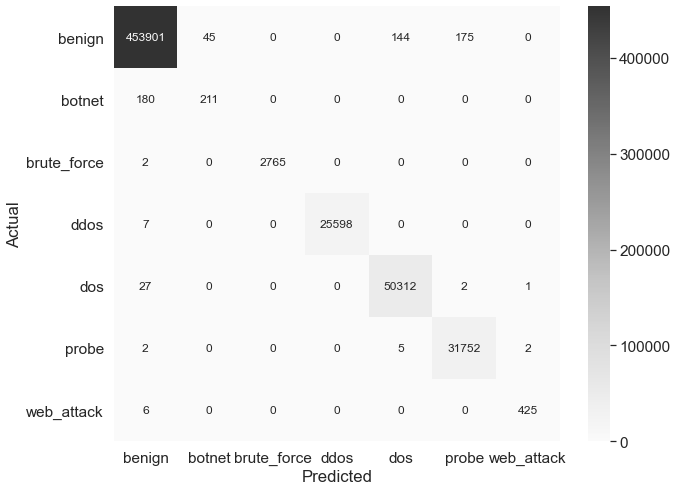
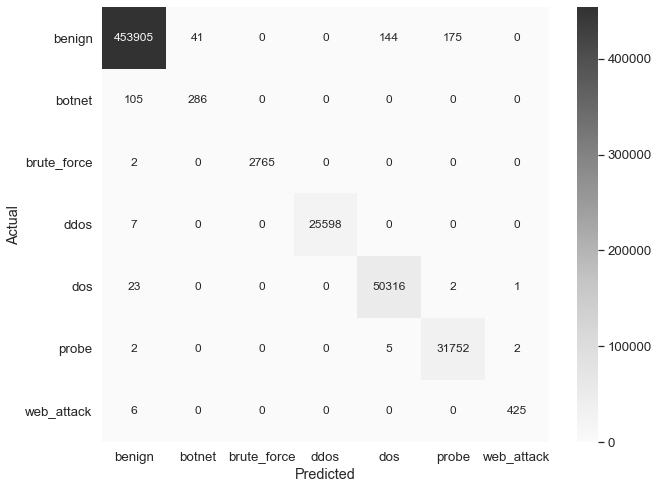
Almost finished

diff --git a/assets/chapters/chapter4.tex b/assets/chapters/chapter4.tex
@@ -8,22 +8,18 @@
 
 The classifier of choice, as discussed in \ref{subsec:classification}, was \textit{Random Forest}. It is particularly interesting to observe the results of the training with ungrouped labels versus the one with grouped labels: the differences in terms of precision and F1 score are remarkable.
 
-\begin{figure}[h!]
-   \centering
-   \includegraphics[scale=0.5]{assets/figures/chapter3/heatmap-all.png}
-   \caption{CICIDS2017 Feature Correlation Matrix (heatmap)}
-   \label{fig:feature-heatmap}
-\end{figure}
+% \begin{figure}[h!]
+%    \centering
+%    \includegraphics[scale=0.5]{assets/figures/chapter3/heatmap-all.png}
+%    \caption{CICIDS2017 Feature Correlation Matrix (heatmap)}
+%    \label{fig:feature-heatmap}
+% \end{figure}
 
 \subsection{Ungrouped Labels Model}
 \label{subsec:ungrouped-training}
 
-\begin{figure}[h!]
-   \centering
-   \includegraphics[scale=0.62]{assets/figures/chapter3/ungrouped_confusion_matrix.png}
-   \caption{Confusion Matrix of the Random Forest model trained using CICIDS2017 dataset with ungrouped features}
-   \label{fig:ungrouped-confusion-matrix}
-\end{figure}
+Considering the model trained with all the labels available in the dataset, performance is expected to be lower that the one trained on grouped features. Three metrics will be considered for the comparison of the features (\textit{precision}, \textit{recall} and \textit{F1 score}).
+\par Table \ref{tab:ungrouped-metrics} shows the metrics achieved by the model, regarding each feature. The average \textit{precision} is $90.9253\%$, the average \textit{recall} is $88.1413\%$ and the average \textit{F1 Score} is $89.2012\%$, with an overall \textit{accuracy} of $99.8636\%$. The training time was $802.53$ seconds, using the hardware listed in \ref{sec:model-training} and training the model on a Jupyter Notebook using Python \texttt{3.9.4} (64-bit).
 
 \begin{table}[h!]
    \centering
@@ -31,42 +27,49 @@ The classifier of choice, as discussed in \ref{subsec:classification}, was \text
        \toprule 
        Traffic Label & Precision (\%) & Recall (\%) & F1 Score (\%) \\
        \midrule
-       \rowcolor{black!10} \texttt{Benign} & 99.9507 & 99.9199 & 99.9353 \\
-       \texttt{Bot} & 82.4219 & 53.9642 & 65.2241 \\
-       \rowcolor{black!10} \texttt{Brute Force} & 100.0000 & 99.9277 & 99.9638 \\
-       \texttt{DDoS} & 100.0000 & 99.9727 & 99.9863 \\
-       \rowcolor{black!10} \texttt{DoS GoldenEye} & 99.7047 & 99.9404 & 99.8224 \\
-       \texttt{DoS Hulk} & 99.4456 & 99.9717 & 99.7080 \\
-       \rowcolor{black!10} \texttt{DoS Slowloris} & 99.2991 & 98.6079 & 98.9523 \\
-       \texttt{FTP-Patator} & 100.0000 & 99.9727 & 99.9863 \\
-       \rowcolor{black!10} \texttt{Port Scan} & 99.7047 & 99.9404 & 99.8224 \\
-       \texttt{SSH-Patator} & 99.4456 & 99.9717 & 99.7080 \\
-       \rowcolor{black!10} \texttt{XSS} & 99.2991 & 98.6079 & 98.9523 \\
+       \rowcolor{black!10} \texttt{Benign} & 99.9480 & 99.9219 & 99.9349 \\
+       \texttt{Bot} & 84.1463 & 52.9412 & 64.9922 \\
+       \rowcolor{black!10} \texttt{Brute Force} & 72.3602 & 77.4086 & 74.7994 \\
+       \texttt{DDoS} & 100.0000 & 99.9570 & 99.9785 \\
+       \rowcolor{black!10} \texttt{DoS GoldenEye} & 99.9023 & 99.4169 & 99.6590 \\
+       \texttt{DoS SlowHTTPTest} & 99.0036 & 99.3636 & 99.1833 \\
+       \rowcolor{black!10} \texttt{DoS Hulk} & 99.6793 & 99.9565 & 99.8177 \\
+       \texttt{DoS Slowloris} & 99.8261 & 99.0509 & 99.4370 \\
+       \rowcolor{black!10} \texttt{FTP-Patator} & 100.0000 & 99.8740 & 99.9369 \\
+       \texttt{Port Scan} & 99.4457 & 99.9748 & 99.7095 \\
+       \rowcolor{black!10} \texttt{SSH-Patator} & 100.0000 & 99.8305 & 99.9152 \\
+       \texttt{XSS} & 36.7925 & 30.0000 & 33.0508 \\
        \bottomrule
    \end{tabular}
    \caption{\textit{Random Forest} trained model metrics on CICIDS2017 (ungrouped) features}
    \label{tab:ungrouped-metrics}
 \end{table}
 
-\subsection{Grouped Labels Model}
-\label{subsec:grouped-training}
+Although the shown results are not bad, they are certainly lowered by the \texttt{Bot}, \texttt{Brute Force} and \texttt{XSS} attacks classification, and this comes also clear form the \textit{confusion matrix} displayed in figure \ref{fig:ungrouped-confusion-matrix}: some of the \texttt{Bot} attacks are classified as \texttt{Benign}, some of the \texttt{Brute Force} ones are classified as \texttt{XSS} and vice versa; the problem is the proportion in which the classification goes wrong (\textit{e.g.: DoS Hulk has been classified 46005 times correctly and 137 times as benign traffic, while XSS has been classified 39 times correctly and 66 times as a brute force attack}). A possible explanation regarding the poor classification performance on these attacks can be maybe that features that correctly identify said attacks are not in the \textit{transport layer}, but in the \textit{application} one, such as particular characters used, or cookie payload, for example.
 
 \begin{figure}[h!]
    \centering
-   \includegraphics[scale=0.52]{assets/figures/chapter3/grouped_confusion_matrix.png}
-   \caption{Confusion Matrix of the Random Forest model trained using CICIDS2017 dataset with grouped features}
-   \label{fig:grouped-confusion-matrix}
+   \includegraphics[scale=0.62]{assets/figures/chapter3/ungrouped_confusion_matrix.png}
+   \caption{Confusion Matrix of the \textit{Random Forest} model trained using CICIDS2017 dataset (ungrouped) features}
+   \label{fig:ungrouped-confusion-matrix}
 \end{figure}
 
-asdasd
+\subsection{Grouped Labels Model}
+\label{subsec:grouped-training}
+
+Due to the variability of network attacks, always changing and updating, it is more important to identify the category of said malicious traffic, rather than the specific tool used to generate it. For this reason the features concerning specific attacks were grouped: this helps with generalization and reliability of the trained model, since the classification takes place observing different attacks, all with the same purpose (\textit{e.g. Information Gathering, Stress Testing, etc.}).
+\par Contrary to the considerations made in section \ref{subsec:ungrouped-training} for the ungrouped training, the expectations for the model trained with the grouped labels are higher. For obvious reasons the metrics used are the same used in the previous section (\textit{precision}, \textit{recall} and \textit{F1 Score}); the model is presumed to perform significantly better then the first one.
+\par As highlighted in section \ref{subsec:pre-processing}, the 12 traffic types can be grouped into 7 bigger categories, leading to less labels to predict and, hopefully, less classification errors. Table \ref{tab:grouped-metrics} displays the metrics for each of said categories. The average \textit{precision} is $97.9827\%$, the average \textit{recall} is $95.9278\%$ and the average \textit{F1 Score} is $96.8638\%$, with an overall \textit{accuracy} of $99.9089\%$. The training time, using the same hardware and software as before, was completed in $760.18$ seconds.
+\par From the data collected, the model has performed as expected: all three metrics increased significantly while the training time has decreased, resulting in a better performing model.
+
 \begin{table}[h!]
    \centering
    \begin{tabular}{l|llll}
        \toprule 
        Traffic Label & Precision (\%) & Recall (\%) & F1 Score (\%) \\
        \midrule
-       \rowcolor{black!10} \texttt{Benign} & 99.9507 & 99.9199 & 99.9353 \\
-       \texttt{Botnet} & 82.4219 & 53.9642 & 65.2241 \\
+       \rowcolor{black!10} \texttt{Benign} & 99.9681 & 99.9208 & 99.9444 \\
+       \texttt{Botnet} & 87.4618 & 73.1458 & 79.6657 \\
        \rowcolor{black!10} \texttt{Brute Force} & 100.0000 & 99.9277 & 99.9638 \\
        \texttt{DDoS} & 100.0000 & 99.9727 & 99.9863 \\
        \rowcolor{black!10} \texttt{DoS} & 99.7047 & 99.9404 & 99.8224 \\
@@ -78,10 +81,55 @@ asdasd
    \label{tab:grouped-metrics}
 \end{table}
 
- \noindent This table layout allows visualization of the algorithm's performance. Each row of the matrix represents the instances in an \textit{actual} class, while each column represents the instances in a \textit{predicted} class. As the name suggests, the graph makes easier to see whether the model is confusing two classes: in this case the precision is remarkable, upholding the choice made.
+Comparing the \textit{confusion matrix} shown in figure \ref{fig:grouped-confusion-matrix} to the previous one, it is clear that some problems regarding the \texttt{Botnet} label remain, in fact it is the only one performing poorly also in this scenario. As discussed above, one way to fix this is by changing methodology, observing the network traffic at \textit{application level}, modifying the considered features, since from \textit{transport level} botnet's traffic can blend with the normal traffic, resulting in being classified as \texttt{Benign}.
 
+\begin{figure}[h!]
+   \centering
+   \includegraphics[scale=0.52]{assets/figures/chapter3/grouped_confusion_matrix.png}
+   \caption{Confusion Matrix of the \textit{Random Forest} model trained using CICIDS2017 dataset (grouped) features}
+   \label{fig:grouped-confusion-matrix}
+\end{figure}
 
- \section{Feature Weight}
-\label{sec:feature-weight}
+To summarize the advantages of using grouped labels, table \ref{tab:grouped-vs-ungrouped} shows the increase of all the metrics concerning the reliability of the model and, at the same time, the decrease of the training time.
 
-\textcolor{dimgray}{\lipsum[1-2]}
+\begin{table}[h!]
+   \centering
+   \begin{tabular}{l|lllll}
+       \toprule 
+       Type & Precision (\%) & Recall (\%) & Accuracy (\%) & F1 Score (\%) & Training Time (s) \\
+       \midrule
+       \rowcolor{black!10} All Labels & 90.9253 & 88.1413 & 99.8636 & 89.2012 & 802.5287 \\
+       Grouped Labels & 97.9828 & 95.9278 & 99.9089 & 96.8638 & 760.1764 \\
+       \midrule
+       $\Delta$ & \faArrowAltCircleUp[regular] 7.0575 & \faArrowAltCircleUp[regular] 7.7865 & \faArrowAltCircleUp[regular] 0.0453 & \faArrowAltCircleUp[regular] 7.6626 & \faArrowAltCircleDown[regular] 42.3523 \\
+       \bottomrule
+   \end{tabular}
+   \caption{Difference between trained models}
+   \label{tab:grouped-vs-ungrouped}
+\end{table}
+
+\section{Attack Detection and Classification}
+\label{sec:attack-detection}
+
+The implemented \gls{ids} has been tested to check its behavior with real life attacks using both \textit{synchronous} and \textit{asynchronous} modes: in other words acquiring traffic from the L3 switch, or using \gls{pcap} files acquired separately (generated or downloaded from the internet).
+\par The \textit{Random Forest} classifier was able to identify the attacks on which has been trained on: \texttt{Botnet}, \texttt{Brute Force}, \texttt{DDoS}, \texttt{DoS}, \texttt{Probe} and \texttt{Web Attacks}. As mentioned above, the attacks were either generated by the tools discussed in \ref{subsec:pentesting-tools} or pre-packaged in a \gls{pcap} file downloaded form the internet (usually datasets). Table \ref{tab:attack-predictions} summarizes well the attacks performed and the associated prediction.
+
+\begin{table}[h!]
+   \centering
+   \begin{tabular}{l|lll}
+       \toprule 
+       Tool Used & Generated Attack & Prediction & \\
+       \midrule
+       \rowcolor{black!10} Patator & SSH Brute Force & \texttt{Brute Force} & \faCheck \\
+       Patator & FTP Brute Force & \texttt{Brute Force} & \faCheck \\
+       \rowcolor{black!10} SlowHTTPTest & Stress Test & \texttt{DoS} & \faCheck \\
+       SlowLoris & Stress Test & \texttt{DoS} & \faCheck \\
+       \rowcolor{black!10} NMap & Information Gathering & \texttt{Probe} & \faCheck \\
+       ISCX-Bot-2014 Dataset & Botnet & \texttt{Botnet} & \faCheck \\
+       \bottomrule
+   \end{tabular}
+   \caption{Generated attacks and associated prediction}
+   \label{tab:attack-predictions}
+\end{table}
+\textit{ISCX-Bot-2014} is a dataset used to check, as the name suggests, if the \gls{ids} was able to detect botnets. It was provided by the \textit{Canadian Institute for Cybersecurity} \cite{Beigi2014}, just like the dataset used for the training.
+\par No further analysis were conducted, since the only purpose of this test was to check the functionality of the \gls{poc}, not to recalculate the metrics discussed in section \ref{subsec:grouped-training}.

diff --git a/assets/chapters/chapter3.tex b/assets/chapters/chapter3.tex
@@ -112,7 +112,7 @@ As pointed out in \ref{subsec:traffic-characterization}, given a dataset, some f
     \label{fig:features-weight}
 \end{figure}
 
-\noindent To understand which features were used in the training stage, table \ref{tab:features-weight} provides a brief summary. All definitions are drawn from the \textit{CICFlowMeter} project discussed in \cite{icissp17}. \\
+\noindent To understand which features were used in the training stage, table \ref{tab:features-weight} provides a brief summary. All definitions are drawn from the \textit{CICFlowMeter} project \cite{icissp17}. \\
 
 \begin{table}[h!]
     \centering
@@ -319,8 +319,8 @@ While designing the \gls{gui}, the one feature to keep in mind was expandability
 % TOPOLOGY
 %----------------------------------------------------
 
-\subsection{Topology and Testing}
-\label{subsec:topology}
+\subsection{Testing Scenarios}
+\label{subsec:testing-scenarios}
 
 Some of the perks of \gls{sdn} paradigm are scalability and flexibility: figure \ref{fig:poc-topology} represents a very simple network topology created using \textit{mininet} to test the \gls{ids} capabilities on a realistic environment. A remarkable fact is that both the controller and the \gls{ids}, as shown, can be in a remote location: this feature is appealing and relevant for modern applications since they both can be virtualized in the cloud, allowing for more flexibility at a lower cost.
 
@@ -338,7 +338,15 @@ Another way of testing the \gls{ids} capabilities is by using its \textit{asynch
 
 \subsection{Penetration Testing Tools}
 \label{subsec:pentesting-tools}
-\textcolor{dimgray}{\lipsum[1]}
+To test the \gls{ids} capability of classifying the attacks it was trained on, it is necessary to generate some malicious traffic. Most of the tools used for penetration testing are open source and available for the major Linux distribution (and for this reason also usable with \textit{mininet}). 
+\par The creators of Kali Linux \cite{KaliLinuxWebsite} released a website containing a list of all the tools used in their system \cite{KaliToolsWebsite}, along with a description and some examples. Some of the most useful tools for the project are:
+
+\begin{itemize}
+  \itemAR \textit{NMap}: a free and open source utility for network discovery and security auditing;
+  \itemAR \textit{Patator}: multi-purpose brute-forcer, with a modular design and a flexible usage. It supports different modules, including \gls{ssh} and \gls{ftp};
+  \itemAR \textit{SlowHTTPTest}: highly configurable tool that simulates some Application Layer Denial of Service attacks;
+  \itemAR \textit{SlowLoris}: type of \gls{dos} tool that allows a single machine to take down another machine's web server with minimal bandwidth and side effects on unrelated services and ports.
+\end{itemize}
 
 % \subsubsection{Stress Testing}
 % \label{subsubsec:stress-testing}

diff --git a/assets/chapters/chapter5.tex b/assets/chapters/chapter5.tex
@@ -1,11 +1,13 @@
 \chapter{Conclusions}
 \label{chap:conclusions}
 
-\lettrine[lines=4, findent=3pt, nindent=0pt]{L}{o} \textcolor{dimgray}{\lipsum[1-4]}
+\lettrine[lines=4, findent=3pt, nindent=0pt]{D}{rawing} the conclusions on this dissertation, the objectives set in \ref{sec:objectives} were achieved: the \textit{network monitor} was implemented and capable of working in both \textit{asynchronous} and \textit{synchronous} mode, in which, integrated with the \gls{sdn} controller \textit{Ryu} can collect automatically data. The metering and analysis system was built using Python and a \textit{Random Forest} classifier trained on the \textit{CICIDS2017} dataset, paying attention to the selected features to achieve enough generalization. Finally the performance has been evaluated splitting said dataset and resulted satisfactory. In addition to the objectives, on top of the \textit{core} application was also built a \gls{gui} to create a \gls{poc} of what could resemble a final product, for improving the \glsxtrshort{ux} and arrange some add-ons implementation in advance.
+\par It was particularly interesting seeing how accurate the \gls{ml} model got after some tweaking of the selected features.
 
 \section{Future work}
 \label{sec:future-work}
 
+Any future work should focus on 
 \textcolor{dimgray}{\lipsum[1-3]}
 
 \section{Final Remarks}

diff --git a/assets/chapters/chapter1.tex b/assets/chapters/chapter1.tex
@@ -44,12 +44,12 @@ As mentioned above, \gls{ml} will be used, to improve accuracy and flexibility o
     \item Develop a network monitor capable of saving traffic data:
     \begin{itemize}
         \itemAR Set up a virtualized environment for testing purposes;
-        \itemAR Choose a \gls{sdn} Controller on which running, as application, a monitoring software to gather information about network traffic;
+        \itemAR Choose a \gls{sdn} Controller to interface with the monitoring software for gathering information about network traffic;
         \itemAR Store the data collected;
     \end{itemize}
     \item Create a metering and analysis system that can classify, through \gls{ml}, the data previously acquired:
     \begin{itemize}
-        \itemAR Choose a \gls{ml} algorithm suitable for this use adn train it;
+        \itemAR Choose a \gls{ml} algorithm suitable for this use and train it;
         \itemAR Perform \gls{ml} classification of the above extracted traffic to detect threats to the security;
         \itemAR Evaluate the performance of the \gls{ids} using an appropriate dataset.
     \end{itemize}

diff --git a/assets/glossary.tex b/assets/glossary.tex
@@ -85,3 +85,9 @@
 \newacronym{vcs}{VCS}{Version Control System}
 
 \newacronym{ajax}{AJAX}{Asynchronous JavaScript and XML}
+
+\newacronym{ssh}{SSH}{Secure Shell}
+
+\newacronym{ftp}{FTP}{File Transfer Protocol}
+
+\newacronym{ux}{UX}{User Experience}
